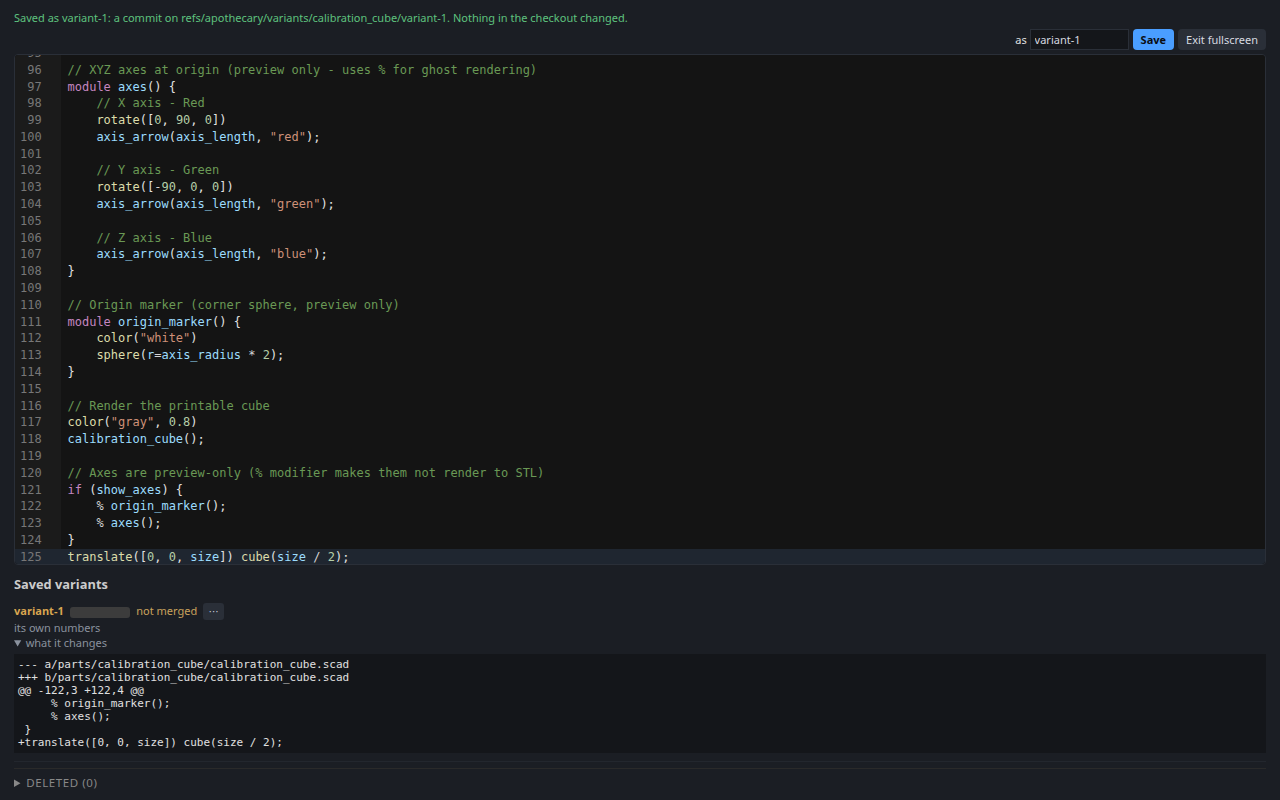
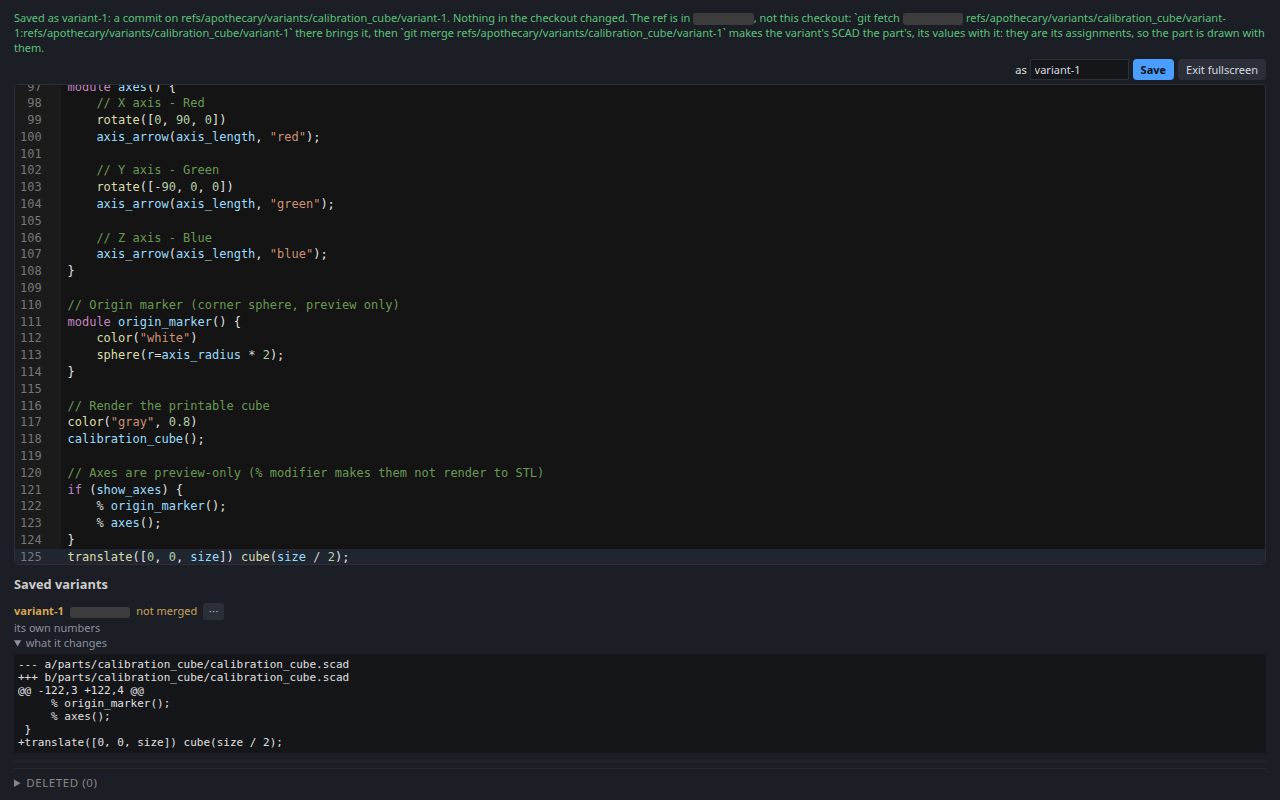
A devkit's LED blinks at its sketch's pace, and page 06's fullscreen picture shows the SCAD editor's save line
The validation demos found the LED (054354f) hard to see: a Query's six
seconds of lines come back at once, so it lit once for 120 ms; and under
Listen the demo's devkit blinks every 100 ms, so a 120 ms flash read as
steadily lit. esp32_blink prints "blink N" as its LED comes on and keeps it
on for half its period. Heard one at a time, each blink lights the LED for
half the time since the one before; heard all at once, up to five are
played back a second apart, the sketch's own pace. The firmware loop's test
waits for the played-back blinks, and takes its picture once they are over
and the LED is out.

They also found walkthrough picture 06-05 stale since bbcf399: the save's
merge advice moved into the SCAD editor's line, which the fullscreen
picture shows. Taken again; the run's other rewrites (a few pixels in the
world and the log, nothing on the pages changed) are not committed.

Tools: Claude Code

Changed region(s): [[0.0, 0.0, 1.0, 0.125]]

diff --git a/tests/e2e/test_the_firmware_loop.py b/tests/e2e/test_the_firmware_loop.py
@@ -261,9 +261,17 @@ def test_the_firmware_loop_goes_round_with_arduino_then_rust(page: Page, url: st
     _choose(page, "Device", "Query")
     expect(log).to_contain_text("heard esp32_blink say hello", timeout=20000)
     expect(sketch).to_contain_text("observed esp32_blink ✓ matches", timeout=8000)
-    # Its LED flashed with the blinks it was heard saying, on its badges.
+    # Its LED blinks with the blinks it was heard saying, on its badges: a Query's come
+    # back at once, and are played back a second apart.
     page.wait_for_function(
-        f"() => (window.fractalViewer.ledFlashes[{DEVKIT!r}] || 0) > 0", timeout=8000
+        f"() => (window.fractalViewer.ledFlashes[{DEVKIT!r}] || 0) >= 2", timeout=8000
+    )
+    # The picture once the five played back are over and the LED is out: one taken
+    # mid-blink would depend on its moment.
+    page.wait_for_function(
+        f"() => window.fractalViewer.ledFlashes[{DEVKIT!r}] >= 5"
+        " && !document.querySelector('.lit[data-port]')",
+        timeout=10000,
     )
     sketch.scroll_into_view_if_needed()
     settled(page)
